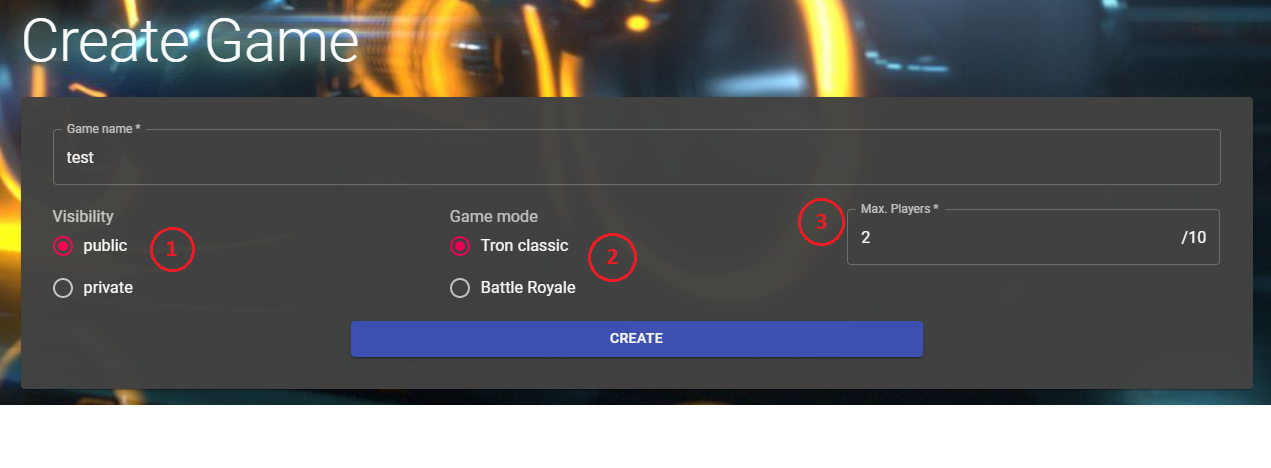
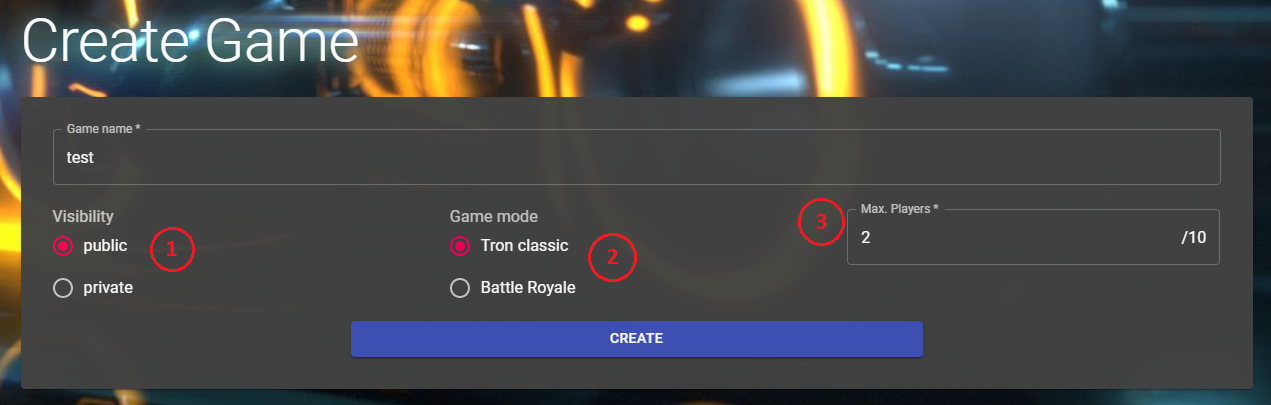
updated Abbildungsverzeichnis

diff --git a/documents/bedienungsanleitung/bedienungsanleitung.tex b/documents/bedienungsanleitung/bedienungsanleitung.tex
@@ -124,13 +124,23 @@
     
     Der User kann über den Button 1 einer Lobby beitreten, dies ist nur für Lobbys möglich, welche mit der Eigenschaft Public erstellt wurden.
     
-    \makebox[\textwidth][c]{\includegraphics[width=1\textwidth]{figures/Spiel_beitreten.png}}
+    \begin{figure}[H]
+    	\centering
+    	\makebox[\textwidth][c]{\includegraphics[width=0.95\textwidth]{figures/Spiel_beitreten.png}}
+    	\caption{Spiel beitreten}
+    	\label{fig:Spiel_Beitreten}
+    \end{figure}
     
     \subsection{Lobby erstellen}
     
     Wenn der User eine eigene Lobby erstellen möchte, dann hat er in dem folgenden Bild die Möglichkeit dazu.
     
-	\makebox[\textwidth][c]{\includegraphics[width=1\textwidth]{figures/Spiel_erstellen.png}}
+	\begin{figure}[H]
+		\centering
+		\makebox[\textwidth][c]{\includegraphics[width=0.95\textwidth]{figures/Spiel_erstellen.png}}
+		\caption{Spiel erstellen}
+		\label{fig:Spiel_Erstellen}
+	\end{figure}
     
     --1-- Wird die public Eigenschaft ausgewählt, dann wird die Lobby unter Public Games aufgeführt. 
     
@@ -144,8 +154,8 @@
     \begin{figure}[H]
     	\centering
     	\makebox[\textwidth][c]{\includegraphics[width=0.95\textwidth]{figures/Lobby.png}}
-    	\caption{Lobbytestcaption}
-    	\label{fig:Lobbytest_caption}
+    	\caption{Lobby}
+    	\label{fig:Lobby}
     \end{figure}
   
     
